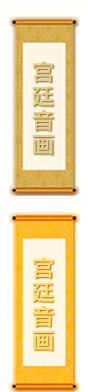
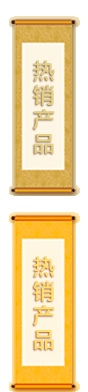
update
category: remove media, add hot

diff --git a/content/themes/gugong/content-shop.php b/content/themes/gugong/content-shop.php
@@ -40,8 +40,8 @@
 		            </li>
 		        </ul>
 		        <div class="slide-trigger dib-wrap">
-		            <a class="dib a1 active" href="category/toys"></a>
-		            <a class="dib a2" href="category/media"></a>
+		            <a class="dib a2 active" href="category/hot"></a>
+		            <a class="dib a1" href="category/toys"></a>
 		            <a class="dib a4" href="category/study"></a>
 		            <a class="dib a5" href="category/home"></a>
 		            <a class="dib a6" href="category/electronics"></a>
